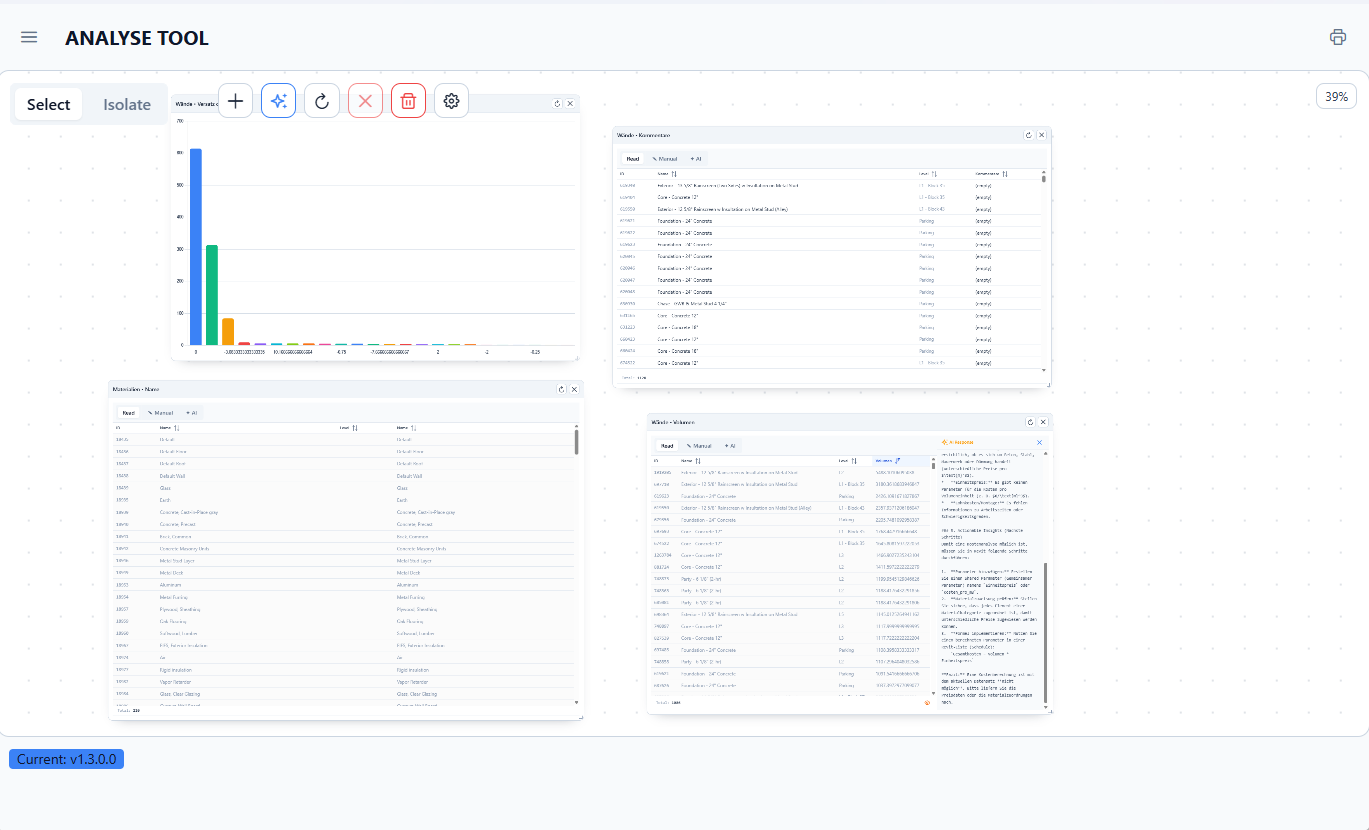
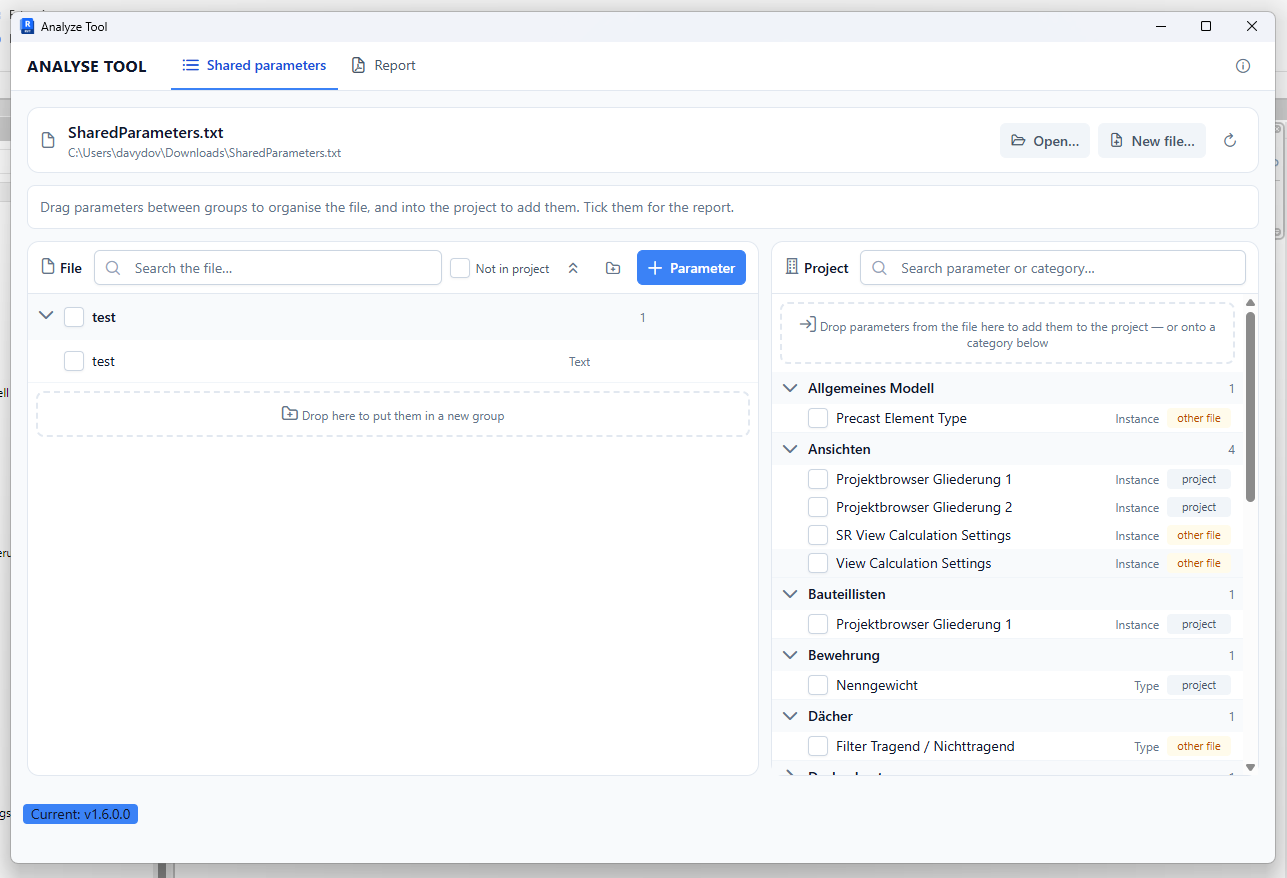
README: clarify WebView2 Runtime requirement; update images

diff --git a/README.md b/README.md
@@ -42,7 +42,7 @@ AnalyseTool has no AI of its own — you connect the one you already use. In **S
 
 ### Compatibility
 - Revit 2025–2027 on Windows.
-- Requires the **Microsoft Edge WebView2 Runtime** (present on most up-to-date Windows; the plugin prompts with a download link if it's missing).
+- Requires the **Microsoft Edge WebView2 Runtime**
 ---
 
 ## Two ways to use it
